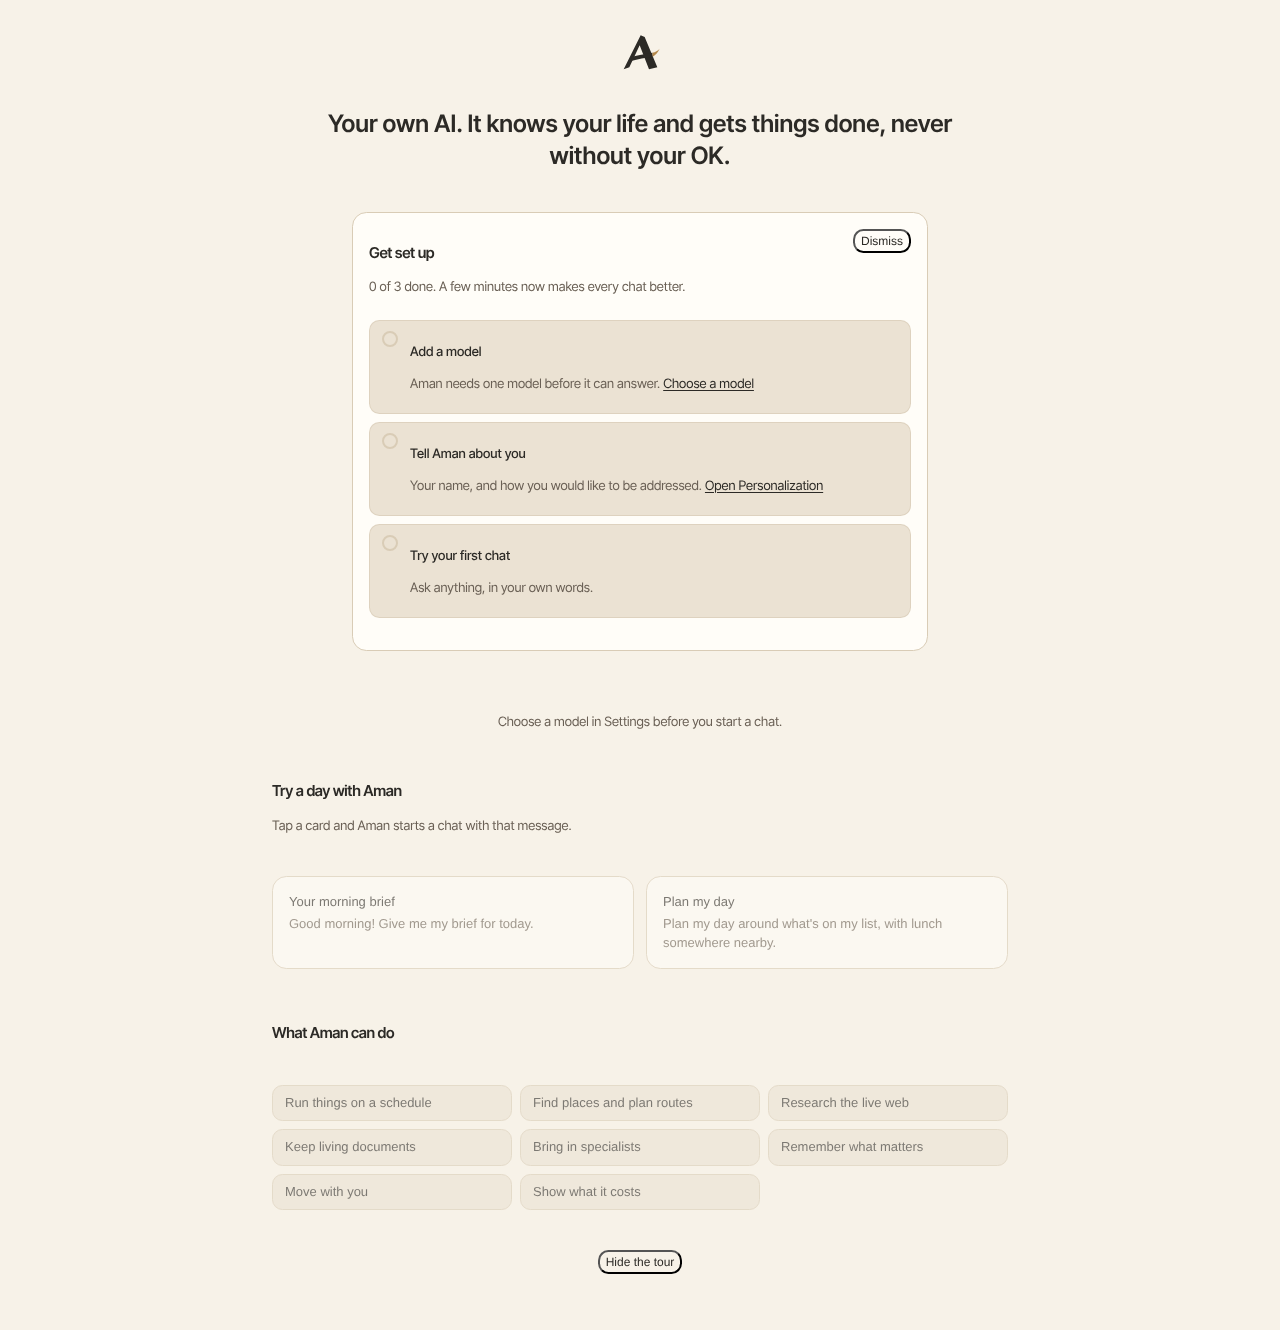
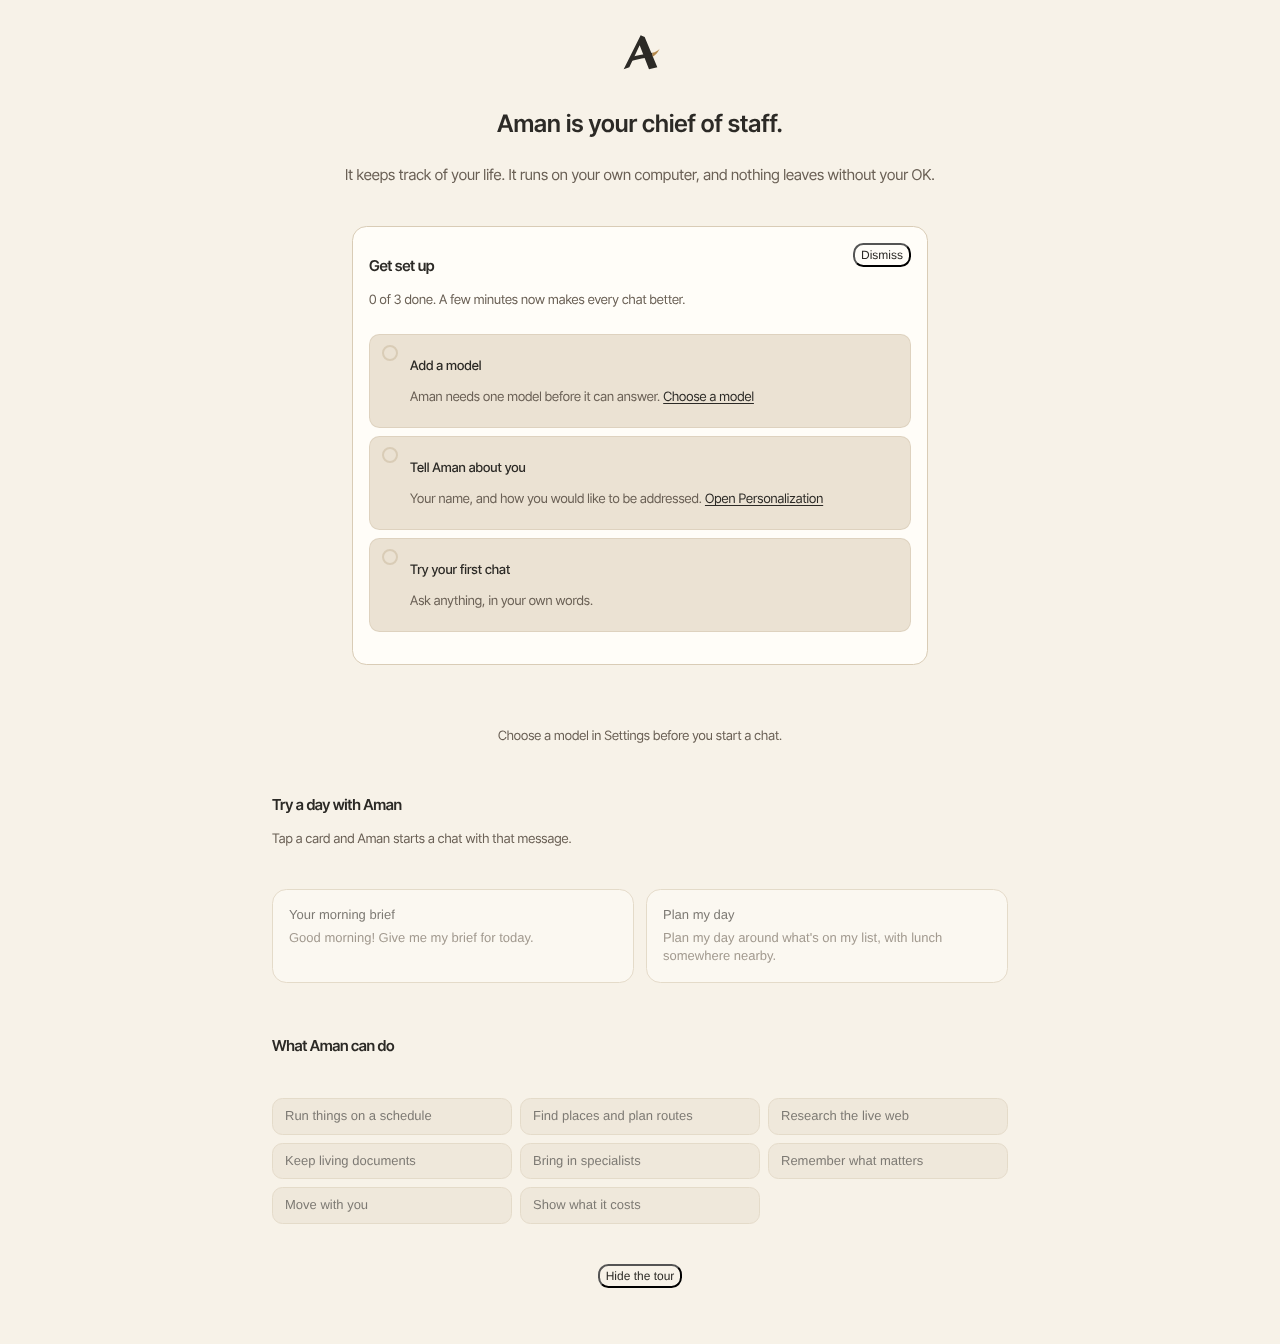
Use the chief-of-staff headline and line on the tour
Replace the tour headline with the owner's wording and add the line
under it. Update the tests that check the headline and regenerate the
after-screenshots so they show the new copy.

diff --git a/packages/trueforge-ui/src/components/AmanTour.tsx b/packages/trueforge-ui/src/components/AmanTour.tsx
@@ -5,7 +5,9 @@ import type { ReactNode } from 'react';
 import { WelcomeScreen } from '../atoms/WelcomeScreen.js';
 import { Button } from '../atoms/primitives/Button.js';
 
-export const TOUR_HEADLINE = 'Your own AI. It knows your life and gets things done, never without your OK.';
+export const TOUR_HEADLINE = 'Aman is your chief of staff.';
+export const TOUR_SUBLINE =
+  'It keeps track of your life. It runs on your own computer, and nothing leaves without your OK.';
 
 /** What this instance can do, so the tour only offers prompts that will work here. */
 export type TourCapabilities = {
@@ -130,6 +132,7 @@ export function AmanTour({ capabilities, onSend, canSend, onHide, setup }: AmanT
   return (
     <div data-testid="aman-tour" className="mx-auto flex w-full max-w-3xl flex-col gap-6 px-4 pb-6">
       <WelcomeScreen heading={TOUR_HEADLINE} className="mb-0" />
+      <p className="-mt-4 text-center text-base text-text-secondary">{TOUR_SUBLINE}</p>
       {setup}
       {canSend ? null : (
         <p className="text-center text-sm text-text-secondary">Choose a model in Settings before you start a chat.</p>

diff --git a/packages/trueforge-ui/test/components/AmanTour.test.tsx b/packages/trueforge-ui/test/components/AmanTour.test.tsx
@@ -33,8 +33,13 @@ describe('AmanTour', () => {
     expect(
       screen.getByRole('heading', {
         level: 1,
-        name: 'Your own AI. It knows your life and gets things done, never without your OK.',
+        name: 'Aman is your chief of staff.',
       }),
+    ).toBeInTheDocument();
+    expect(
+      screen.getByText(
+        'It keeps track of your life. It runs on your own computer, and nothing leaves without your OK.',
+      ),
     ).toBeInTheDocument();
     expect(screen.getByRole('heading', { name: 'Try a day with Aman' })).toBeInTheDocument();
     expect(screen.getByRole('heading', { name: 'What Aman can do' })).toBeInTheDocument();

diff --git a/packages/frontend/tests/firstRunGuide.browser.test.ts b/packages/frontend/tests/firstRunGuide.browser.test.ts
@@ -44,7 +44,7 @@ const EXPECTATIONS = {
 } as const;
 
 /** The tour's own headline, the first thing an ordinary new chat shows. */
-const TOUR_HEADING = 'Your own AI. It knows your life and gets things done, never without your OK.';
+const TOUR_HEADING = 'Aman is your chief of staff.';
 
 async function screenshotDir(): Promise<string> {
   const configured = process.env.AMAN_SCREENSHOT_DIR;
